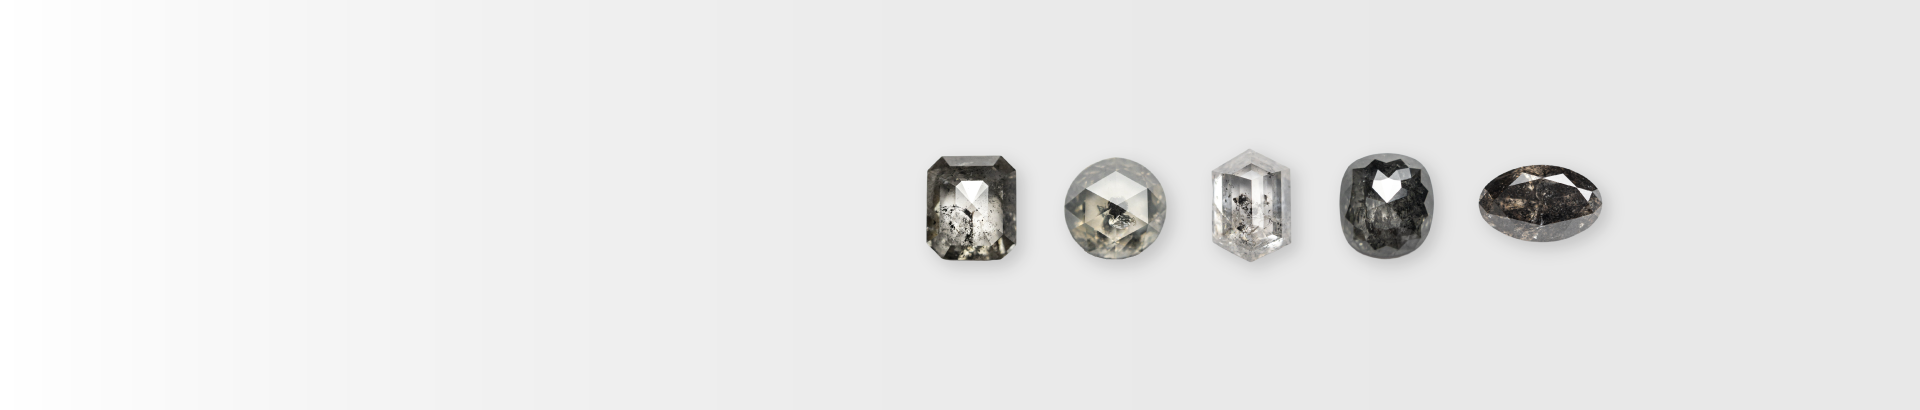
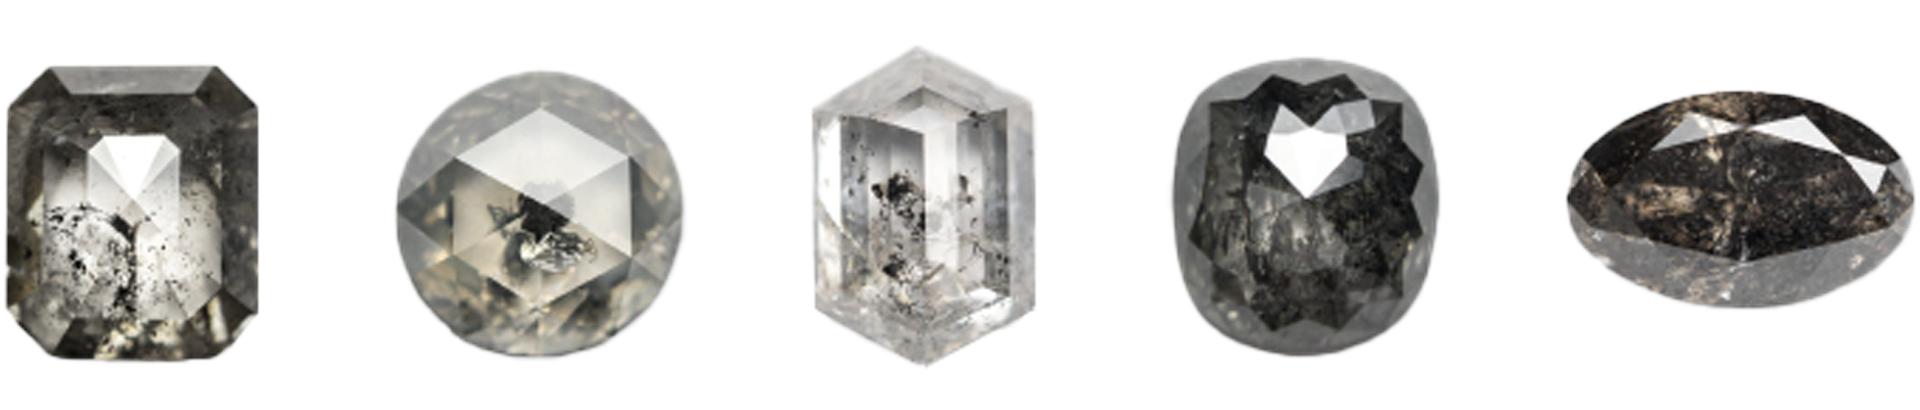
updated

diff --git a/wp-content/loose-diomond/inc/retail.php b/wp-content/loose-diomond/inc/retail.php
@@ -12,174 +12,59 @@ $inventory_banner_mob  = get_field('festival_inventory_banner_mob', 'option');
 
 
 
-add_filter( 'woocommerce_package_rates', 'ls_shpng_woocommerce_package_rates', 999, 2 );
+add_filter( 'woocommerce_package_rates', 'ls_shpng_woocommerce_package_rates', 100, 2 );
+function ls_shpng_woocommerce_package_rates( $rates, $package ) { 
+    
+    $sub_total = WC()->cart->get_subtotal();  
 
-function ls_shpng_woocommerce_package_rates( $rates, $package ) {
-
-    $sub_total = WC()->cart->cart_contents_total;
-
-    // Check if any applied coupon has free shipping enabled
+    // //if cart has only normal product and subtotal is less then 500 only show below order 500 method
+    // if($sub_total < 500){
+    //     unset( $rates['free_shipping:1'] );
+    //     //unset( $rates['flat_rate:5'] );
+    // }
+    // else{
+    //     unset( $rates['flat_rate:3'] );
+    // }  
+    // return $rates;
     $is_free_shipping = false;
-
     $applied_coupons = WC()->cart->get_applied_coupons();
+       foreach( $applied_coupons as $coupon_code ){
+       $coupon = new WC_Coupon($coupon_code);
+        if($coupon->get_free_shipping()){   //if coupon has free shipping option on
+           $is_free_shipping = true;
 
-    foreach ( $applied_coupons as $coupon_code ) {
-
-        $coupon = new WC_Coupon( $coupon_code );
-
-        if ( $coupon->get_free_shipping() ) {
-            $is_free_shipping = true;
-            break;
         }
     }
+    if(!$is_free_shipping){
+       if($sub_total <= 500){
 
-    // Continue only if no free shipping coupon applied
-    if ( ! $is_free_shipping ) {
-
-        // For orders below 500
-        if ( $sub_total < 500 ) {
-
-            $items       = WC()->cart->get_cart();
-            $items_count = count( $items );
+        $items_count = count(WC()->cart->get_cart());
+        $items = WC()->cart->get_cart();
 
             $cnt_cp = 0;
 
-            // Count products having product tag "custom"
-            if ( $items_count >= 1 ) {
-
-                foreach ( $items as $item => $values ) {
-
+             $arr_custom_product = array('849973','849972','849971','849970','849969','846211','833062','832621','832619');
+            if($items_count >= 1){
+                foreach($items as $item => $values) { 
+                    
                     $product_id = $values['product_id'];
-
-                    // Check product tag
-                    if ( has_term( 'custom', 'product_tag', $product_id ) ) {
-                        $cnt_cp++;
+                    
+                    if(in_array($product_id, $arr_custom_product)){
+                        $cnt_cp++ ;
                     }
                 }
             }
 
-            // If all products have "custom" tag
-            if ( $cnt_cp == $items_count ) {
-
-                // Hide flat rate shipping
-                unset( $rates['flat_rate:7'] );
-
-            } else {
-
-                // Hide free shipping
-                unset( $rates['free_shipping:4'] );
+            if($cnt_cp==$items_count){
+               unset( $rates['flat_rate:3'] );
+             }else{
+                unset( $rates['free_shipping:5'] );
             }
-
-        } else {
-
-            // For subtotal >= 500 hide flat rate
-            unset( $rates['flat_rate:7'] );
+        }
+        else{
+            unset( $rates['flat_rate:3']);
         }
     }
-
-    return $rates;
-}
-
-
-/*add_action('woocommerce_cart_calculate_fees', 'custom_payment_gateway_fee_discount', 20);
-
-function custom_payment_gateway_fee_discount($cart) {
-
-    if (is_admin() && !defined('DOING_AJAX')) {
-        return;
-    }
-
-    if (!$cart || $cart->is_empty()) {
-        return;
-    }
-
-    $payment_method = WC()->session->get('chosen_payment_method');
-
-    // Calculate on subtotal + shipping
-    $subtotal = $cart->get_subtotal();
-    $shipping = $cart->get_shipping_total();
-    $amount = $subtotal;
-
-
-    if (in_array($payment_method, array('lgdcrypto', 'bacs'), true)) {
-
-        $discount = $amount * 0.02;
-
-        if ($payment_method === 'lgdcrypto') {
-            $label = 'Crypto Discount';
-        } elseif ($payment_method === 'bacs') {
-            $label = 'Wire  Discount';
-        } else {
-            $label = 'Payment Discount';
-        }
-
-        $cart->add_fee(
-            __($label, 'woocommerce'),
-            $discount,
-            false
-        );
-    }
-}*/
-
-// Auto-apply/remove the gateway discount coupon based on selected payment method
-add_action('woocommerce_before_calculate_totals', 'custom_payment_gateway_coupon_discount', 5000);
-
-function custom_payment_gateway_coupon_discount($cart) {
-
-    if (is_admin() && !defined('DOING_AJAX')) {
-        return;
-    }
-    if (!$cart) {
-        return;
-    }
-
-    static $running = false;
-    if ($running) {
-        return;
-    }
-    $running = true;
-
-    $payment_method = WC()->session->get('chosen_payment_method');
-
-    $gateway_coupons = array(
-        'lgdcrypto' => 'lgd_crypto2',
-        'bacs'      => 'lgd_wire2',
-    );
-
-    $applied_coupons = $cart->get_applied_coupons();
-
-    foreach ($gateway_coupons as $gateway => $coupon_code) {
-        $should_have = ($payment_method === $gateway);
-        $has_it      = in_array($coupon_code, $applied_coupons, true);
-
-        if ($should_have && !$has_it) {
-            $cart->apply_coupon($coupon_code);
-        } elseif (!$should_have && $has_it) {
-            $cart->remove_coupon($coupon_code);
-        }
-    }
-
-    $running = false;
-}
-
-
-
-/**
- * Called right after the user removes a coupon via AJAX (React cart / checkout).
- * If the removed coupon is NOT the festival coupon (e.g. FB20), the festival
- * coupon (hallo30) should come back immediately — even if it had been kicked
- * out earlier when FB20 was applied (an individual-use coupon removes the
- * others, which also set the "removed by user" flag).
- */
-function ls_reapply_festival_coupon_after_remove($removed_code) {
-    global $discount_coupon_code, $is_discount_enabled;
-    if (!$is_discount_enabled || empty($discount_coupon_code) || !WC()->cart || !WC()->session) return;
-
-    if (wc_format_coupon_code($removed_code) !== wc_format_coupon_code($discount_coupon_code)) {
-        WC()->session->__unset('ls_auto_apply_discount');
-    }
-    WC()->cart->calculate_totals();
-    ls_auto_apply_discount_coupon(WC()->cart);
-    wc_clear_notices();
-    WC()->cart->calculate_totals();
+  
+    return $rates; 
 }

diff --git a/wp-content/loose-diomond/inc/ls-common-sections.php b/wp-content/loose-diomond/inc/ls-common-sections.php
@@ -84,14 +84,14 @@ function ls_render_consult_why() {
         <div class="container-fluid">
             <div class="row">
                 <div class="col-2">
-                    <img src="<?php echo get_template_directory_uri() . '/rrp-img/pdp/dia.png'; ?>">
+                    <img src="<?php echo get_template_directory_uri() . '/rrp-img/pdp/bg_book_consultation_1.png'; ?>">
                 </div>
                 <div class="col-8">
                     <h2>Book a Free 30 Minute Consultation Call with Gemologist</h2>
             <a class="ls-consult__btn" href="<?php echo esc_url( home_url( '/contact-us/' ) ); ?>">Schedule Now</a>
                 </div>
                 <div class="col-2">
-                    <img src="<?php echo get_template_directory_uri() . '/rrp-img/pdp/dia.png'; ?>">
+                    <img src="<?php echo get_template_directory_uri() . '/rrp-img/pdp/bg_book_consultation_1.png'; ?>">
                 </div>
             </div>
             
